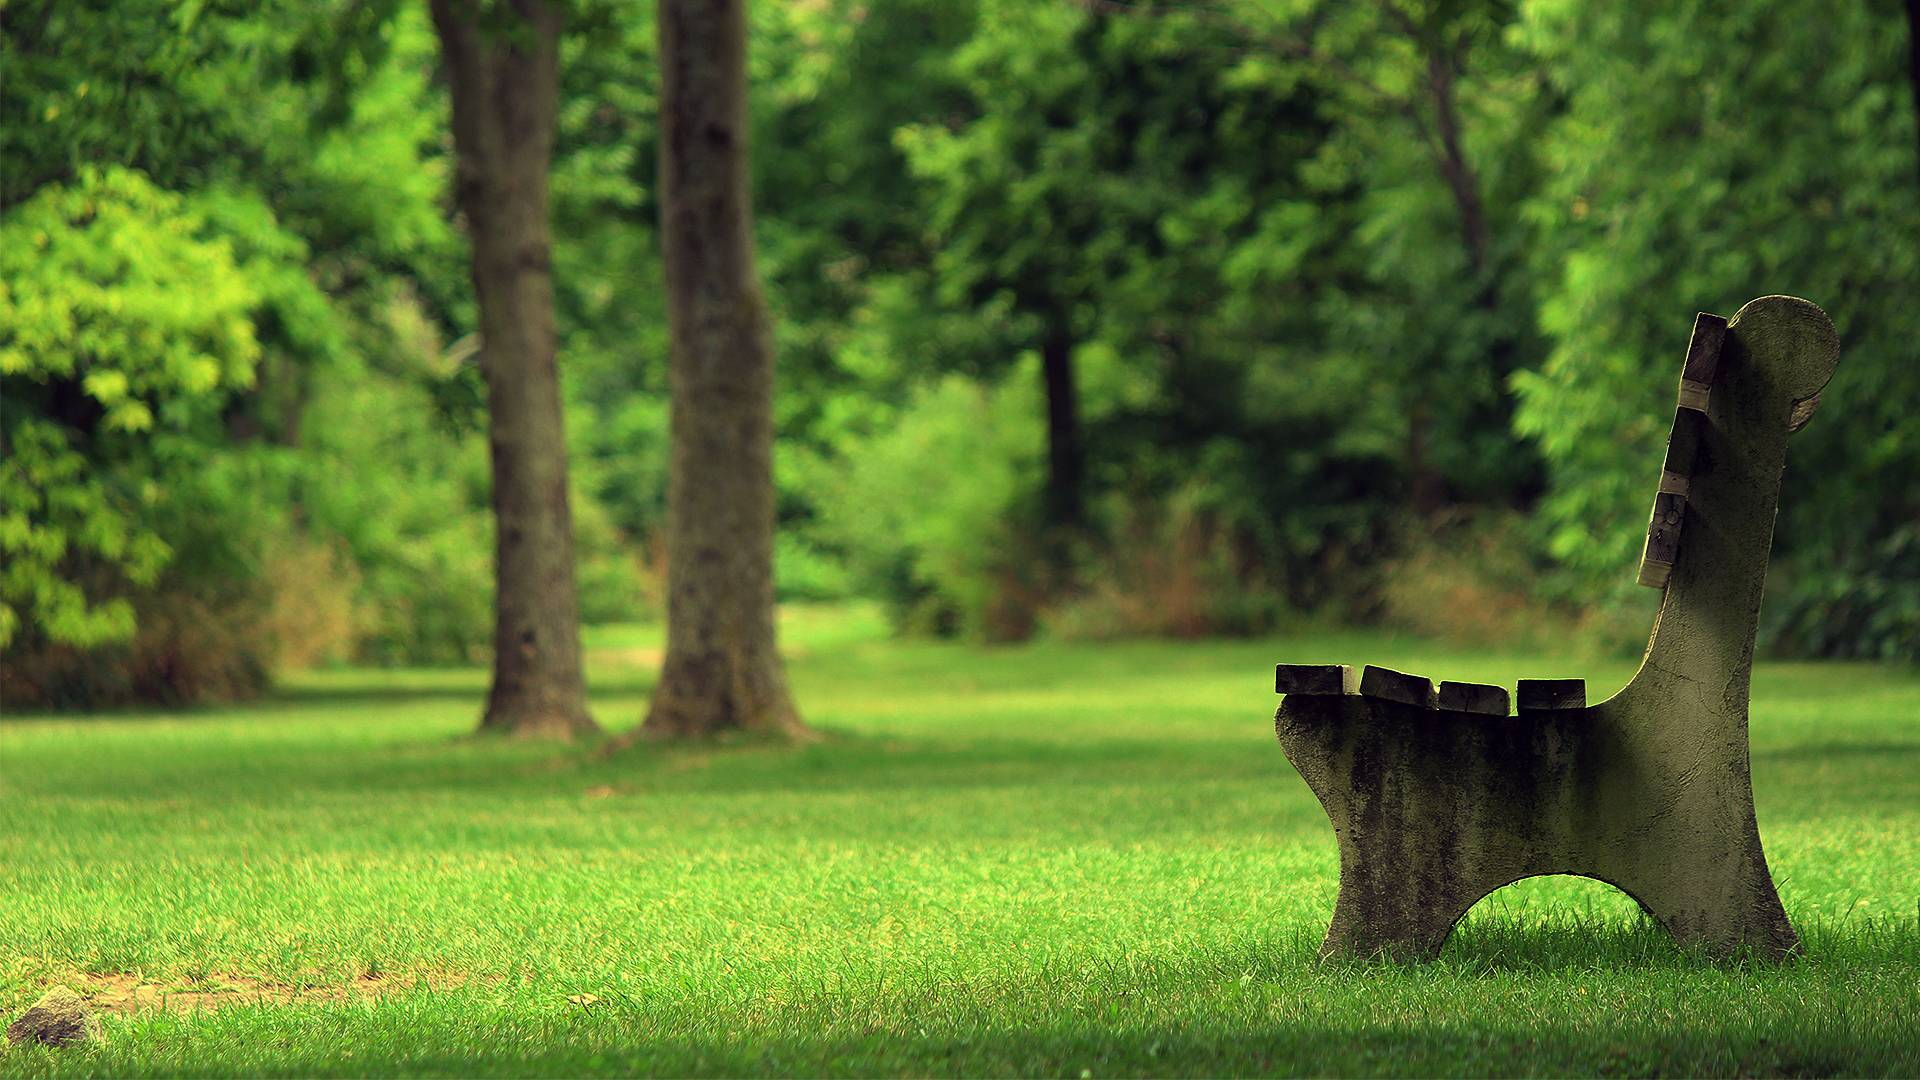
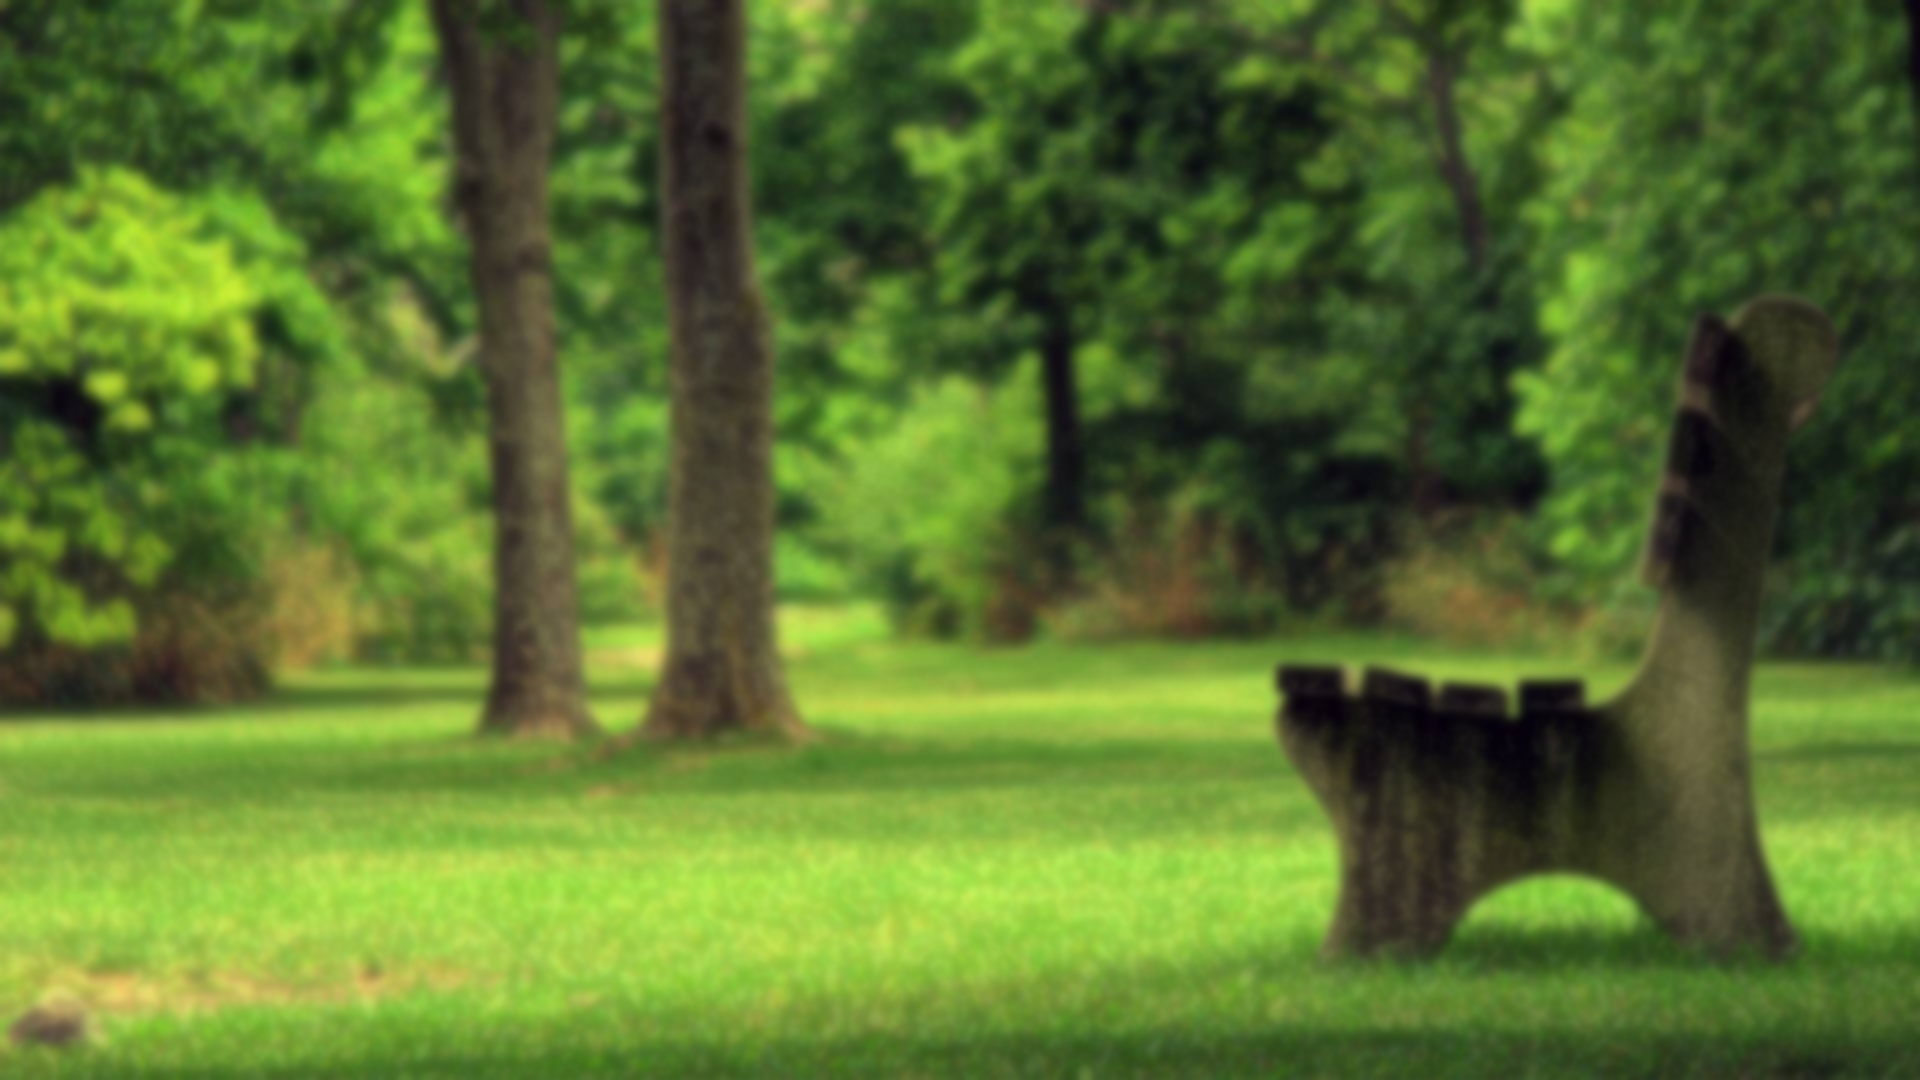
added auto complete function + scrollable + wallpaper blur

diff --git a/script.js b/script.js
@@ -45,8 +45,9 @@ if (validateForm() != false){
     for (var i = 0; i < 6; i++){
       
       let div = document.getElementById("dogs"+j)
-      var breed = document.getElementById("search").value;
-      fetch('https://dog.ceo/api/breed/'+breed+'/images/random')
+      const breed = document.getElementById("search").value;
+      newbreed = breed.replace(/\s/g,'/')
+      fetch('https://dog.ceo/api/breed/'+newbreed+'/images/random')
       .then(response=>{
         if (response.ok) {
         return response.json();
@@ -118,5 +119,103 @@ fetch('https://dog.ceo/api/breeds/list/all')
         array.push(key)
     }
 }
-console.log(array)
+function autocomplete(inp, arr) {
+  /*the autocomplete function takes two arguments,
+  the text field element and an array of possible autocompleted values:*/
+  var currentFocus;
+  /*execute a function when someone writes in the text field:*/
+  inp.addEventListener("input", function(e) {
+      var a, b, i, val = this.value;
+      /*close any already open lists of autocompleted values*/
+      closeAllLists();
+      if (!val) { return false;}
+      currentFocus = -1;
+      /*create a DIV element that will contain the items (values):*/
+      a = document.createElement("DIV");
+      a.setAttribute("id", this.id + "autocomplete-list");
+      a.setAttribute("class", "autocomplete-items");
+      /*append the DIV element as a child of the autocomplete container:*/
+      this.parentNode.appendChild(a);
+      /*for each item in the array...*/
+      for (i = 0; i < arr.length; i++) {
+        /*check if the item starts with the same letters as the text field value:*/
+        if (arr[i].substr(0, val.length).toUpperCase() == val.toUpperCase()) {
+          /*create a DIV element for each matching element:*/
+          b = document.createElement("DIV");
+          /*make the matching letters bold:*/
+          b.innerHTML = "<strong>" + arr[i].substr(0, val.length) + "</strong>";
+          b.innerHTML += arr[i].substr(val.length);
+          /*insert a input field that will hold the current array item's value:*/
+          b.innerHTML += "<input type='hidden' value='" + arr[i] + "'>";
+          /*execute a function when someone clicks on the item value (DIV element):*/
+              b.addEventListener("click", function(e) {
+              /*insert the value for the autocomplete text field:*/
+              inp.value = this.getElementsByTagName("input")[0].value;
+              /*close the list of autocompleted values,
+              (or any other open lists of autocompleted values:*/
+              closeAllLists();
+          });
+          a.appendChild(b);
+        }
+      }
+  });
+  /*execute a function presses a key on the keyboard:*/
+  inp.addEventListener("keydown", function(e) {
+      var x = document.getElementById(this.id + "autocomplete-list");
+      if (x) x = x.getElementsByTagName("div");
+      if (e.keyCode == 40) {
+        /*If the arrow DOWN key is pressed,
+        increase the currentFocus variable:*/
+        currentFocus++;
+        /*and and make the current item more visible:*/
+        addActive(x);
+      } else if (e.keyCode == 38) { //up
+        /*If the arrow UP key is pressed,
+        decrease the currentFocus variable:*/
+        currentFocus--;
+        /*and and make the current item more visible:*/
+        addActive(x);
+      } else if (e.keyCode == 13) {
+        /*If the ENTER key is pressed, prevent the form from being submitted,*/
+        e.preventDefault();
+        if (currentFocus > -1) {
+          /*and simulate a click on the "active" item:*/
+          if (x) x[currentFocus].click();
+        }
+      }
+  });
+  function addActive(x) {
+    /*a function to classify an item as "active":*/
+    if (!x) return false;
+    /*start by removing the "active" class on all items:*/
+    removeActive(x);
+    if (currentFocus >= x.length) currentFocus = 0;
+    if (currentFocus < 0) currentFocus = (x.length - 1);
+    /*add class "autocomplete-active":*/
+    x[currentFocus].classList.add("autocomplete-active");
+  }
+  function removeActive(x) {
+    /*a function to remove the "active" class from all autocomplete items:*/
+    for (var i = 0; i < x.length; i++) {
+      x[i].classList.remove("autocomplete-active");
+    }
+  }
+  function closeAllLists(elmnt) {
+    /*close all autocomplete lists in the document,
+    except the one passed as an argument:*/
+    var x = document.getElementsByClassName("autocomplete-items");
+    for (var i = 0; i < x.length; i++) {
+      if (elmnt != x[i] && elmnt != inp) {
+      x[i].parentNode.removeChild(x[i]);
+    }
+  }
+}
+/*execute a function when someone clicks in the document:*/
+document.addEventListener("click", function (e) {
+    closeAllLists(e.target);
+});
+}
+autocomplete(document.getElementById("search"), array);
   })
+
+

diff --git a/style.css b/style.css
@@ -40,17 +40,16 @@ header{
 #search{
     width:350px;
 }
+
 body{
     position: relative;
-    height:1300px;
     background-image: url("img/wallpaper.jpg");
     background-repeat: no-repeat;
-    background-position: center;
-    background-size: cover;
-   
-
-    
+    background-size:cover;
+    background-position-y: top;  
 }
+
+
 .page{
     margin:10px;
     display: flex;
@@ -84,10 +83,11 @@ footer{
     font-size: 30px;
     height:50px;
     width: auto;
-    bottom:0;
     background-color: rgb(216, 155, 89);
     color: rgb(72, 51, 29);
     position: fixed;
+    bottom:0;
+    
 }
 footer span{
     margin: 10px;  
@@ -95,3 +95,43 @@ footer span{
 span:hover{
     text-decoration: underline;
 }
+
+.autocomplete {
+    /*the container must be positioned relative:*/
+    
+    position: relative;
+    display: inline-block;
+  }
+
+  .autocomplete-items {
+    position: absolute;
+    border: 1px solid #d4d4d4;
+    border-bottom: none;
+    border-top: none;
+    z-index: 0;
+    /*position the autocomplete items to be the same width as the container:*/
+    top: 100%;
+    left: 0;
+    right: 0;
+    overflow-y:scroll;
+    
+    max-height: 300px;
+  }
+  .autocomplete-items div {
+    padding: 10px;
+    cursor: pointer;
+    background-color: #fff;
+    border-bottom: 1px solid #d4d4d4;
+    font-size:large;
+    color: black;
+  }
+  .autocomplete-items div:hover {
+    /*when hovering an item:*/
+    background-color: #e9e9e9;
+  }
+  .autocomplete-active {
+    /*when navigating through the items using the arrow keys:*/
+    background-color: DodgerBlue !important;
+    color: #ffffff;
+  }
+

diff --git a/index.html b/index.html
@@ -11,7 +11,7 @@
 <body>
 
 
-
+<div id="bg-img"></div>
 <header class="display-1 text-center">
 <div id="icon-left"><img src="img/dogpaw.png"></div>
 <div>Dog Generator</div>
@@ -19,8 +19,10 @@
 <nav class="navbar navbar-light bg-light" id="navbar">
   <div class="container-fluid">
     <a class="navbar-brand">Search the dog by breed!</a>
-    <form class="d-flex">
+    <form autocomplete="off" class="d-flex">
+      <div class = "autocomplete"> 
       <input class="form-control me-2" type="search" placeholder="Search" aria-label="Search" id="search">
+      </div>
     </form>
     <button class="btn btn-outline-success" id="submitbtn">Search</button>
   </div>
